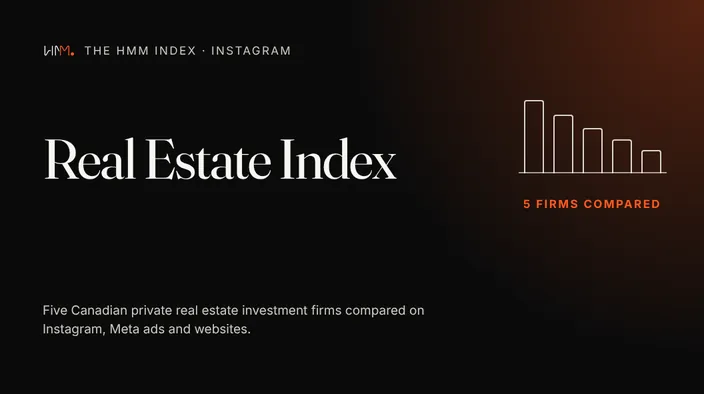
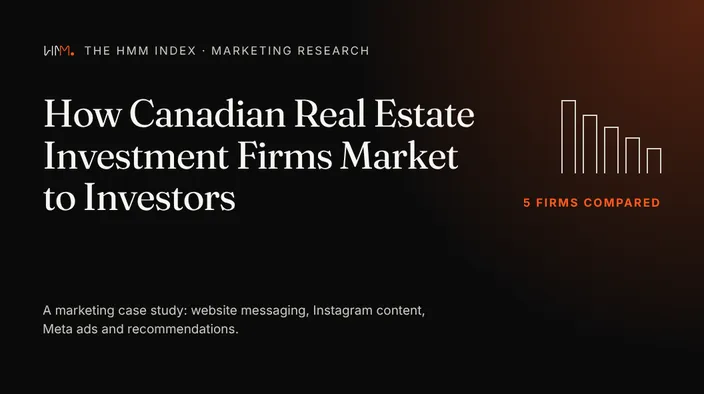
HMM Index hub: Real Estate card uses the case study artwork, title and button
Claude-Session: https://claude.ai/code/session_018Zqg63gvGy44sVUM5NEbiy

diff --git a/hmm-index.html b/hmm-index.html
@@ -108,11 +108,11 @@ height="0" width="0" class="gtm-ns"></iframe></noscript>
       <article class="wk-tool ix-card">
         <a class="wk-tool-shot" href="/realestate-index" tabindex="-1" aria-hidden="true"><img src="/assets/index/real-estate/card.webp" srcset="/assets/index/real-estate/card-704.webp 704w, /assets/index/real-estate/card.webp 1056w" sizes="(max-width: 900px) calc(100vw - 40px), 576px" alt="" width="1056" height="591" loading="lazy" decoding="async"></a>
         <div class="wk-tool-body">
-          <p class="wk-tool-kind">Benchmark &middot; Canada &middot; Monthly</p>
-          <h3 class="wk-tool-title">The Real Estate Index</h3>
+          <p class="wk-tool-kind">Case study &middot; Canada &middot; Monthly</p>
+          <h3 class="wk-tool-title">How Canadian Real Estate Investment Firms Market to Investors</h3>
           <p class="wk-tool-who">Five Canadian private real estate investment firms compared on Instagram, Meta ads and their websites, with four ranked on public Instagram engagement.</p>
           <dl class="ix-dates"><div><dt>Last updated</dt><dd>November 3, 2026</dd></div><div><dt>Next update</dt><dd data-ix-next="14" data-ix-tz="America/New_York" data-ix-latest="2026-10-13">The 14th of each month</dd></div></dl>
-          <div class="wk-tool-links"><a class="wk-tool-cta" href="/realestate-index">Read the Real Estate Index &rarr;</a></div>
+          <div class="wk-tool-links"><a class="wk-tool-cta" href="/realestate-index">Read the case study &rarr;</a></div>
         </div>
       </article>
       <article class="wk-tool ix-card">

diff --git a/_kit/realestate-instagram/card_artwork.html b/_kit/realestate-instagram/card_artwork.html
@@ -1,7 +1,7 @@
 <!doctype html><html><head><meta charset="utf-8"><title>Real Estate Index card artwork</title>
 <link rel="stylesheet" href="/styles.css">
 <style>
-/* Artwork source for /assets/index/real-estate/card.webp (1056x591) and its -704 variant, the /hmm-index card, rendered by Playwright in the Med Spa and Business Finance card pattern (founder, 2026-11-02). Text and outline shapes only: no account screenshots, logos or brand colours. The page hero image is separate and unchanged. Not a site page (the kit is not deployed). */
+/* Superseded 2026-11-04 (founder): card.webp and card-704.webp are now copies of research.webp and research-704.webp, rendered from artwork.html. Kept for history. Was the artwork source for /assets/index/real-estate/card.webp (1056x591) and its -704 variant, the /hmm-index card, rendered by Playwright in the Med Spa and Business Finance card pattern (founder, 2026-11-02). Text and outline shapes only: no account screenshots, logos or brand colours. The page hero image is separate and unchanged. Not a site page (the kit is not deployed). */
 html,body{margin:0;background:#0B0B0B}
 .art{position:relative;width:1056px;height:591px;overflow:hidden;background:radial-gradient(circle at 100% 0,rgba(255,90,31,.30),rgba(11,11,11,0) 44%),#0B0B0B;color:#F7F6F2;font-family:Inter,sans-serif}
 .k{position:absolute;left:64px;top:62px;display:flex;align-items:center;gap:13px;font-size:17px;letter-spacing:.14em;color:#CFCBC2}

diff --git a/_kit/business-spend/tests/test_kit.py b/_kit/business-spend/tests/test_kit.py
@@ -39,6 +39,10 @@ def released(c):
 # and the deck no longer says "Each is free to read, with no sign-up", since the case study gates some tabs; the Real
 # Estate and Hair Loss cards use their own card artwork in the Med Spa pattern).
 HUB_LATER_EDITS = [
+    ('<p class="wk-tool-kind">Benchmark &middot; Canada &middot; Monthly</p>\n          <h3 class="wk-tool-title">The Real Estate Index</h3>',
+     '<p class="wk-tool-kind">Case study &middot; Canada &middot; Monthly</p>\n          <h3 class="wk-tool-title">How Canadian Real Estate Investment Firms Market to Investors</h3>'),
+    ('<a class="wk-tool-cta" href="/realestate-index">Read the Real Estate Index &rarr;</a>',
+     '<a class="wk-tool-cta" href="/realestate-index">Read the case study &rarr;</a>'),
     ('<dl class="ix-dates"><div><dt>Last updated</dt><dd>October 13, 2026</dd></div>',
      '<dl class="ix-dates"><div><dt>Last updated</dt><dd>November 3, 2026</dd></div>'),
     ('<p class="wk-tool-who">Five Canadian private real estate investment firms, ranked on public Instagram likes, comments and recorded plays.</p>',

diff --git a/CLAUDE.md b/CLAUDE.md
@@ -64,7 +64,7 @@ The report body between the REPORT BODY markers is regenerated each cycle; the h
 - Med Spa Index (2026-10-15, founder): the GTA page moved to `/medspa-index` (H1 "Med Spa Index"; `/gta-medspa-index` and `/medspa-index.html` 308 to it). The GTA MedSpa Index and Medspa research bullets above describe editions 001 and 002, whose snapshots stay at `/gta-medspa-index/edition-001` and `/gta-medspa-index/edition-002`. Edition 003 (published 15 October 2026) is a fixed five-account comparison (VitalityMD, Signature Cosmetic Clinic, Laserbody MD, Skin Vitality, SpaMedica), window 15 September to 14 October 2026, built by `derive_003.py`, `frames_003.py` and `build_003.py` in `_kit/gta-medspa-instagram/` (README "Edition 003 scope"); its snapshot is `/medspa-index/edition-003` and its standout cover frames are self-hosted under `/assets/index/medspa/frames/`. Edit the page through `editions/003/body_template.html` and `build_003.py`, never by hand. **Monthly editions from 004 (prepared 2026-10-15):** the routine prompt is `_kit/gta-medspa-instagram/ROUTINE_PROMPT_FIVE.md`, with the generic kit `cohort_five.json`, `derive_five.py`, `frames_five.py`, `build_five.py` (`template_five.html`, `head_five.html`; the month's reading in `editions/NNN/narrative.json`), `check_live.py` and `export_five.py` (README "Five-account editions"). The hub and `/hmm-index` edition text sits in `data-msi` elements that the release build rewrites; keep those attributes. **Window rule (founder, 2026-10-16):** every edition covers the 15th of the previous month to the 14th of the collection month, Toronto time (`window_five.py`), so editions follow on without gaps or overlaps. **The stored prompt of "HMM - GTA MedSpa Index (Monthly)" is `ROUTINE_PROMPT_FIVE.md` (replaced 2026-10-16; update both together); the task was re-enabled on 2026-10-16** (founder), first run 15 November 2026 for edition 004, and `cohort_five.json` `schedule.active` is true; if the task is paused again, set it to false so the next release shows "timing to be confirmed" on `/hmm-index`. **Any edit to `/medspa-index` in a normal session** goes through `editions/003/body_template.html`, `editions/003/head_extra.html` or `build_003.py` (mirror layout and style changes into `template_five.html`, `head_five.html` and `build_five.py` in the same commit), rebuilt with `build_003.py --target release` and the values recorded in `editions/003/edition_003.json`; `python3 check_live.py` and `python3 -m unittest tests.test_tools` must pass, or the next routine stops at its prior-edition check. `ROUTINE_PROMPT_50.md` and `check_hub.py` describe the old design and are not used.
 - Business Cards & Spend Management Index (2026-10-23, founder brief; **edition 001 published 27 October 2026**, owner approval of edition, Instagram content and hub wording recorded in `edition.json` and `social.json`): `/business-spend-index` is built by `_kit/business-spend/build.py` from the evidence files in that kit (README there); never hand-edit the page or its CSVs. Live page `index, follow`, in the sitemap, linked from `/industries/finance` ("Experience and research" section, "Independent research" card, 2026-11-02, founder; update its source and observation counts there if they change) and on `/hmm-index` (card and `CollectionPage` entry; the hub is titled "The HMM Index: Marketing Research"); fixed snapshot `/business-spend-index/edition-001` (self canonical, one `noindex, follow`, not in the sitemap; never rewritten, metadata fixes recorded in its head comment). Article `dateModified` comes from the recorded production deployment (`edition.json` `modified_at`), no `datePublished`. No refresh is scheduled. Browser checks and publication blockers are in `_kit/business-spend/CHROME_HANDOFF.md`. Release needs the owner's explicit instruction; approvals in `edition.json` are never generated. Review CTA entry `research_business_spend` (allowed in `contact.html` and the forms script source). **Email-code gate (2026-11-02, founder):** the Opportunities cards, both Audience and buying stage sections, every example "More detail" and the Downloads list open for a visitor only after a 6-digit code sent to their email is confirmed (forms script labels `research-code` and `research-verify`, tab Research unlocks); the gated text stays in the HTML for search engines, AI crawlers and readers without JavaScript, marked in the Article JSON-LD (`isAccessibleForFree` false, `hasPart` `.bs-gated`); never on the snapshot. Redeploy the forms script before releasing a gated page. Since the same day's second pass (founder) the tabs are Overview, Website Messaging, Product Comparison, Organic Social, Paid Social, Sign-up Journey and Recommendations, in that order (anchor ids unchanged; earlier names in this bullet are history), and the gate covers the last four tabs whole below their at-a-glance strip plus the Downloads list. Spec in the Design System note "Case study email-code gate". The page is an independent comparative marketing case study presented since 2026-10-30 (founder, case study brief) as "How Six Business Finance Brands Market Their Products", subtitle "A marketing case study", within The HMM Index (title, og and twitter titles, Article headline and breadcrumb name all follow `narrative.json` `hero.title`; URL, canonical, schema types and ids unchanged; the edition 001 snapshot and historical edition records keep the old name), with seven views as accessible tabs (Overview, Social Media Strategy, Paid Social Strategy, Website Messaging, Product Comparison, Customer Journey, Opportunities (was Lessons); the paid ads tab, "Paid Social Strategy" since 2026-10-31 (renamed from "Social Media Paid Ads Strategy"; the Sources & evidence link sat below the tab bar from the same day and, since 2026-11-01 (founder), sits once below the tab content with a one-line note, hidden while Sources & evidence is open; the Overview has an at-a-glance strip of counts and numbered cards, each with one figure from its tab, all computed in `build.py`; the Social and Paid tabs open with the same strip, counted in `social.py` and `paid.py`, and carry no percentage note at the top), `#bs-paid`, added 2026-10-30 at the founder's request, since the 2026-10-31 creative review (staging, `_kit/business-spend/SECTION_REVIEW.md` section 3) shows percentage splits of 87 distinct reviewed creatives (Creative mix by brand with a Focus, Format, Creative approach, Theme selector; Audience and buying stage; Selected creative examples) from `paid_creatives.json` (`paid_creatives_derive.py`; images inspected, videos reviewed as frames across their full length, audio not heard), with the ad-text reading in Sources & evidence; it reads the six brands' active Meta Ad Library ads in Canada collected 30 October 2026 at 5:28 p.m. Toronto time with the official Apify actor `apify/facebook-ads-scraper` (founder-approved; the raw output, with full ad copy and media links, stays private and only its SHA-256 is recorded): `paid_derive.py` writes `paid_ads.json` (119 derived records: ad ID and Ad Library link, start date, days running, format, versions, placements, button, destination, headline and flags), `paid_narrative.json` holds the readings, `paid.py` renders the tab, its Sources & evidence section `#bs-ref-paid` and the download `assets/index/business-spend/business-spend-index-paid-ads-v1.csv`; the library shows no spend, impressions or reach for these ads, so the tab describes what runs, not performance; differences from the 23 October website evidence and the Ramp page's @tryramp mentions are listed for editorial review and change no finding; the tabs stay plain and the full research trail, every observation, test specification, status definition, disclosure, citation, edition history and download sits in one reference view, `#bs-sources`, opened by the "Sources & evidence" link beside the tabs, not a seventh tab, with a return link to the previous tab; `data-bsi-tabs`, all content in the initial HTML, complete without JavaScript, print shows every view; Design System note "True tabs and panel content"); release preparation (including the proposed hub title "The HMM Index: Marketing Research" and card artwork) is in `_kit/business-spend/release.py` and `RELEASE_STEPS.md`. The Instagram content view (official Instagram accounts only, LinkedIn out of scope by owner decision 2026-10-26; posts published 25 July to 22 October 2026, fixed) was ingested on 2026-10-27 from the private package `business-spend-index-edition-001-social-evidence-v1.zip` (sha256 `680d0e77...8231`): `social_derive.py` writes `social.json` (status `review`, never hand-edited), `social_narrative.json` holds the editorial layer, `social_images.py` makes the two image crops, and `SOCIAL_INGEST_NOTE.md` records the corrections to the collector's handoff. The tab (`#bs-social`, shown as "Social Media Content" since 2026-10-30 with the line "This edition reviews Instagram content only."; the anchor id is unchanged) is the second tab since 2026-10-30 (the "Social Media Strategy" tab since the 2026-10-30 case study brief; since 2026-11-01 (founder, `SECTION_REVIEW.md` section 12) it follows the Paid Social Strategy format, rendered by `paid.py` `_dim_panel` with a social context: 1 Creative mix by brand (Focus, Format, Creative approach, Theme switch; What stood out; a short Not compared line for Float, Loop and Keep with their latest post dates; since 2026-11-01 (founder) no window line or Ramp note in the tab, which opens with an at-a-glance strip of counts like the Overview; the Ramp decision stays in Sources & evidence), 2 Audience and buying stage (personas, likely stage), 3 Selected examples (six stills under `assets/index/business-spend/social/`, hashes in `social_analysis.json` `example_images`), 4 Engagement by theme within each brand; Positioning moved to Sources & evidence; every post is coded with `focus`, `approaches`, `personas` (with clues) and `stage` in `social_analysis.json`. **@tryramp counts as Ramp's account since 2026-11-01 on the owner's confirmation** (`social_analysis.json` `attribution_decisions.ramp`, with the supporting signs; ramp.com still links no Instagram account): its 19 posts were collected with the Apify actor (31 October 2026, 9:49 p.m. Toronto time, output hash recorded) and reviewed from frames and full images, and the analysis covers 51 posts; `social.json`, the edition 001 snapshot and the edition 001 Instagram CSV keep @tryramp marked unresolved as collected on 26 October; data from `social_analysis.json` (classification guide and one record per attributed post, classified from the 26 October evidence; creative approach is set for fully inspected images and carousels and, since 1 November 2026, for the 21 attributed reels, collected with the founder-approved official Apify actor `apify/instagram-scraper` (31 October 2026, 8:03 p.m. Toronto time; collector output, signed media links and video files private, hashes only in `social_analysis.json` `video_review` and per-post `video_review`) and reviewed as frames across each video's full length with on-screen text read, audio not heard; themes stay caption-based; the 12 @tryramp reels were not reviewed; the Overview Social card reads "How brands position themselves, vary their creatives and engage their audience.") and `social.py` `strategy_html`; medians use exact likes plus comments only, abbreviated counts stay approximate and missing counts are never zero; download `assets/index/business-spend/business-spend-index-social-analysis-v1.csv`; anchor ids unchanged); the owner approved it on 2026-10-27 (status `reviewed`, approval recorded by hand). Its 26 October records are 32 attributed posts and 19 @tryramp records then marked unresolved (kept that way in `social.json` and the edition 001 CSV); since 2026-11-01 the analysis counts all 51 on the owner's confirmation of @tryramp. Exact captions, screenshots and the repost list stay private. The evidence archive's private storage reference stays out of the repository. A separately dated Airwallex follow-up (30 October 2026: pricing, card page and cash rebate promotion terms) is recorded in `_kit/business-spend/airwallex_followup_2026-10-30.json` (hashes and short quotes; captures private, checked with `validate.py --followup DIR`); it is marked with a "Follow-up, 30 October 2026" tag in the Product Comparison cells it changes (refinement pass of 2026-10-31; Product Comparison is now one comparison with three categories behind a switch, the last tab, renamed Opportunities on 2026-11-01 (founder; anchor `#bs-lessons` and code names unchanged), is one card per brand with one or two evidence-based opportunities each, tagged by area and counted in an at-a-glance strip, and Sources & evidence sections are expanders) and is not part of the 23 October observations, statuses, findings or CSV.
 - Index data stores (2026-10-14, founder: "save the data to sheet & drive"): each GTA MedSpa and Hair Loss edition is saved by its routine to a Google Sheet (an Editions row, plus per-edition scoreboard and post log tabs; GTA also a full ranking and the roster) and its post log CSV to a Drive folder, both inside "HMM Indexes": "HMM GTA MedSpa Index data" `1_Qi7e54I4WG9M7Uie8lzrBwtbOreykvtqn0qku59QG8` with folder "GTA MedSpa Index" `15xJ1lYPJM4W-8O2b9gXU-I_V2lvZfAjt`, and "HMM Hair Loss Index data" `1wVrhuPpavUQ9-D9B4BPiWJbAeg0MZ-1-V2Xv5NpsWpU` with folder "Hair Loss Index" `1k9ch41mq2ghVJPMTMqVDf5MfBvBNiggD`. Rows come from each kit's `export_sheet.py`; the routines never retype figures. Both scheduled tasks need the Google Sheets and Google Drive connectors.
-- Real Estate Index, Instagram board from cycle 003 (24 Sep 2026): Skyline, Equiton, Lankin, Pier 4, McGillivray Capital. Marlin Spring left the Instagram board (stays on LinkedIn); Starlight, Centurion and Hazelview are not carried. Wealthsimple is an out-of-category reference and never appears on the board. Wording rule: a firm "has no corporate Instagram account", never "has no Instagram account" (Hazelview runs @hazelviewproperties). Cycle 004 is the first clean comparison against this board. **Views (founder, 2026-11-02):** the page reads as six tabbed views (Overview, Rankings, Organic Social, Paid Social, Recommendations, Sources & evidence; all in the HTML, a jump-link list without JavaScript) (since 2026-11-03 (founder) titled "How Canadian Real Estate Investment Firms Market to Investors", subtitle "A marketing case study", with six tabs and Sources & evidence as one link below the tab content, as on the Business index; the Rankings tab was "Engagement Comparison" after the same day's founder review and is "HMM Ranking" since that evening (founder), in three blocks since the second pass that day (an interactive comparison of seven individual metrics sorted by the selected one, with the HMM score as a one-line strip above the chart; three short reading notes; a collapsed Wealthsimple reference; formulas, bands and firm groups in Sources & evidence); the Overview is "Explore the case study", one sentence and five cards to the other tabs, and the FAQ sits once in Sources & evidence), set in `report_body.html` and checked by `build_v2.py`; see the kit `EDITORIAL_RULES.md` "Views". **Roster (founder, 2026-11-02, applied the same day as a revision of edition 005 with every account re-collected for the same window, so the same five firms appear in every section):** Equiton, Skyline, Lankin, Greybrook Realty Partners and Centurion Asset Management (Pier 4 and McGillivray Capital left the board; Centurion had no corporate Instagram account that could be found, so four are scored; the edition 005 snapshot keeps the first publication; new frames `equiton-edition005r.webp` and `greybrook-edition005r.webp`; `ig_cycle.json` carries a `revision` block and `build_v2.py` accepts a revision collected after its window). A seventh view, Website Messaging, and the five-firm Organic and Paid strategy comparisons and per-firm recommendations were added the same day from data collected on 2 November 2026 (Meta Ad Library via apify/facebook-ads-scraper, Greybrook posts via apify/instagram-scraper, websites read with Chromium; raw output private), rendered by `_kit/realestate-instagram/strategy/render.py` (README there). Equiton's website showed a bot check to that browser and was read the same evening in the founder's own browser with Claude in Chrome (no page text or hash kept). Since 2026-11-03 (founder) Website Messaging is one glance table (offer, evidence, next step) and two captioned crops (`/assets/index/real-estate/website/`), with the per-firm detail in Sources & evidence; Organic Social is a glance table, one post per firm and a themes takeaway with a link to the video chart, which moved to HMM Ranking (2026-11-03, founder); Paid Social is one glance table of the 101 reviewed investor ads, a collapsed breakdown, a running-time, button and destination table, the longest-running ad per firm and "What stood out" (since 2026-11-03, founder), with advertiser counts and the 108 to 101 reconciliation in Sources & evidence (same day, founder); Recommendations is one card per firm (what stood out, Test, Measure; Lankin leads with an Action block on its six broken ad links since 2026-11-03, founder); HMM Ranking's website column counts answers found before enquiry and its destination offer table counts names in main content (disclaimers excluded), each block ending with a Back to comparisons link, and the hero's Last Updated is the Toronto date of `modified_at` (2026-11-03, founder); Sources & evidence opens with a header and an at-a-glance strip, then About this research, Evidence by tab, Method, coverage and corrections (with one dated corrections list), the CSV download, the post log and the FAQ; Centurion's $25,000 minimum was added that day as a recorded correction, in its glance row too. Since 2026-11-04 (founder) Paid Social's return-figure and minimum counts include figures printed on the ad images and video frames (`strategy/ad_creative_review.json`, dated correction in `ads.json`), and the longest-running ad cards show the ad (self-hosted WebP under `/assets/index/real-estate/ads/`). Recommendations (same day, founder) open with a start line, put Lankin first at full width with two fixes (broken links; the 12% to 16% versus 10% to 14% target ranges, pages re-read 4 November, `websites.json` `followup_2026_11_04`), and show the other four firms in two columns. Since 2026-11-04 (founder) `/industries/finance` links to it with a third card in "Experience and research" (Independent research, artwork `research.webp` and `research-704.webp` rendered from the kit `artwork.html` in the Business card style, note "Built from 51 Instagram posts, 101 investor ads and five websites"; update those counts there if they change). **Tab order and gate (founder, 2026-11-03):** the tabs are Overview, Website Messaging, HMM Ranking, Organic Social, Paid Social, Recommendations (Overview cards in the same order; anchor ids unchanged), and HMM Ranking, Organic Social, Paid Social and Recommendations are gated whole by the same email-code gate as the Business index (Sources & evidence stays open, founder decision 2026-11-03; the CSV is email-gated and sent by email since the same day: the forms script attaches `/assets/index/real-estate/data/realestate-index-postlog.csv`, which `build_v2.py` writes on every build; research key `realestate-index`, `RESEARCH` entry in the forms script, which must be redeployed before the gated page goes live; snapshots never carry the gate; rules in the kit `EDITORIAL_RULES.md` "Email-code gate"). **Window rule (founder, 2026-10-16):** from edition 006 each edition covers the 14th of the previous month to the 13th of the collection month, Toronto time, both included (`window_14_13` in `build_v2.py`; `ig_cycle.json` carries `window_rule` "14th-13th", `window_days` and `prior_window`), so editions follow on without gaps or overlaps; edition 006 is 14 October to 13 November 2026. The body prints the length and end with `{{WINDOW_DAYS}}` and `{{WINDOW_END_LONG}}` (edition 005 renders "30 days ending 13 October 2026", byte-identical).
+- Real Estate Index, Instagram board from cycle 003 (24 Sep 2026): Skyline, Equiton, Lankin, Pier 4, McGillivray Capital. Marlin Spring left the Instagram board (stays on LinkedIn); Starlight, Centurion and Hazelview are not carried. Wealthsimple is an out-of-category reference and never appears on the board. Wording rule: a firm "has no corporate Instagram account", never "has no Instagram account" (Hazelview runs @hazelviewproperties). Cycle 004 is the first clean comparison against this board. **Views (founder, 2026-11-02):** the page reads as six tabbed views (Overview, Rankings, Organic Social, Paid Social, Recommendations, Sources & evidence; all in the HTML, a jump-link list without JavaScript) (since 2026-11-03 (founder) titled "How Canadian Real Estate Investment Firms Market to Investors", subtitle "A marketing case study", with six tabs and Sources & evidence as one link below the tab content, as on the Business index; the Rankings tab was "Engagement Comparison" after the same day's founder review and is "HMM Ranking" since that evening (founder), in three blocks since the second pass that day (an interactive comparison of seven individual metrics sorted by the selected one, with the HMM score as a one-line strip above the chart; three short reading notes; a collapsed Wealthsimple reference; formulas, bands and firm groups in Sources & evidence); the Overview is "Explore the case study", one sentence and five cards to the other tabs, and the FAQ sits once in Sources & evidence), set in `report_body.html` and checked by `build_v2.py`; see the kit `EDITORIAL_RULES.md` "Views". **Roster (founder, 2026-11-02, applied the same day as a revision of edition 005 with every account re-collected for the same window, so the same five firms appear in every section):** Equiton, Skyline, Lankin, Greybrook Realty Partners and Centurion Asset Management (Pier 4 and McGillivray Capital left the board; Centurion had no corporate Instagram account that could be found, so four are scored; the edition 005 snapshot keeps the first publication; new frames `equiton-edition005r.webp` and `greybrook-edition005r.webp`; `ig_cycle.json` carries a `revision` block and `build_v2.py` accepts a revision collected after its window). A seventh view, Website Messaging, and the five-firm Organic and Paid strategy comparisons and per-firm recommendations were added the same day from data collected on 2 November 2026 (Meta Ad Library via apify/facebook-ads-scraper, Greybrook posts via apify/instagram-scraper, websites read with Chromium; raw output private), rendered by `_kit/realestate-instagram/strategy/render.py` (README there). Equiton's website showed a bot check to that browser and was read the same evening in the founder's own browser with Claude in Chrome (no page text or hash kept). Since 2026-11-03 (founder) Website Messaging is one glance table (offer, evidence, next step) and two captioned crops (`/assets/index/real-estate/website/`), with the per-firm detail in Sources & evidence; Organic Social is a glance table, one post per firm and a themes takeaway with a link to the video chart, which moved to HMM Ranking (2026-11-03, founder); Paid Social is one glance table of the 101 reviewed investor ads, a collapsed breakdown, a running-time, button and destination table, the longest-running ad per firm and "What stood out" (since 2026-11-03, founder), with advertiser counts and the 108 to 101 reconciliation in Sources & evidence (same day, founder); Recommendations is one card per firm (what stood out, Test, Measure; Lankin leads with an Action block on its six broken ad links since 2026-11-03, founder); HMM Ranking's website column counts answers found before enquiry and its destination offer table counts names in main content (disclaimers excluded), each block ending with a Back to comparisons link, and the hero's Last Updated is the Toronto date of `modified_at` (2026-11-03, founder); Sources & evidence opens with a header and an at-a-glance strip, then About this research, Evidence by tab, Method, coverage and corrections (with one dated corrections list), the CSV download, the post log and the FAQ; Centurion's $25,000 minimum was added that day as a recorded correction, in its glance row too. Since 2026-11-04 (founder) Paid Social's return-figure and minimum counts include figures printed on the ad images and video frames (`strategy/ad_creative_review.json`, dated correction in `ads.json`), and the longest-running ad cards show the ad (self-hosted WebP under `/assets/index/real-estate/ads/`). Recommendations (same day, founder) open with a start line, put Lankin first at full width with two fixes (broken links; the 12% to 16% versus 10% to 14% target ranges, pages re-read 4 November, `websites.json` `followup_2026_11_04`), and show the other four firms in two columns. Since 2026-11-04 (founder) `/industries/finance` links to it with a third card in "Experience and research" (Independent research, artwork `research.webp` and `research-704.webp` rendered from the kit `artwork.html` in the Business card style, note "Built from 51 Instagram posts, 101 investor ads and five websites"; update those counts there if they change). The same artwork is the `/hmm-index` Real Estate card (`card.webp` and `card-704.webp` are copies, same day), whose title is now the case study title, kind "Case study" and button "Read the case study" (recorded in the Business kit test `HUB_LATER_EDITS`). **Tab order and gate (founder, 2026-11-03):** the tabs are Overview, Website Messaging, HMM Ranking, Organic Social, Paid Social, Recommendations (Overview cards in the same order; anchor ids unchanged), and HMM Ranking, Organic Social, Paid Social and Recommendations are gated whole by the same email-code gate as the Business index (Sources & evidence stays open, founder decision 2026-11-03; the CSV is email-gated and sent by email since the same day: the forms script attaches `/assets/index/real-estate/data/realestate-index-postlog.csv`, which `build_v2.py` writes on every build; research key `realestate-index`, `RESEARCH` entry in the forms script, which must be redeployed before the gated page goes live; snapshots never carry the gate; rules in the kit `EDITORIAL_RULES.md` "Email-code gate"). **Window rule (founder, 2026-10-16):** from edition 006 each edition covers the 14th of the previous month to the 13th of the collection month, Toronto time, both included (`window_14_13` in `build_v2.py`; `ig_cycle.json` carries `window_rule` "14th-13th", `window_days` and `prior_window`), so editions follow on without gaps or overlaps; edition 006 is 14 October to 13 November 2026. The body prints the length and end with `{{WINDOW_DAYS}}` and `{{WINDOW_END_LONG}}` (edition 005 renders "30 days ending 13 October 2026", byte-identical).
 
 ### Phase 2 page migration checklist
 
